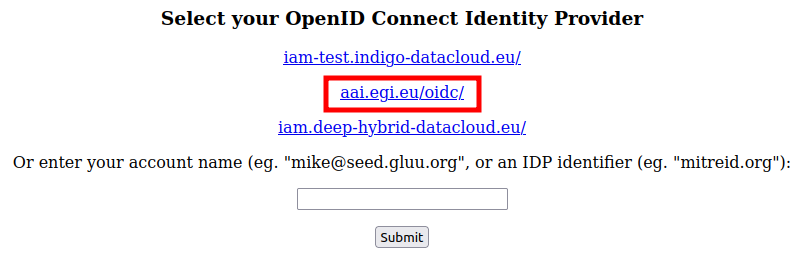
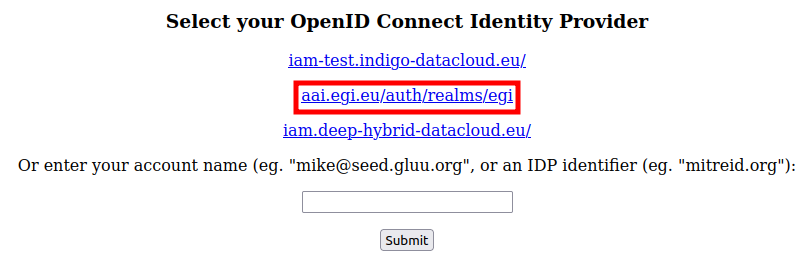
Update screenshot to login with OpenStack Horizon (#562)

diff --git a/content/en/users/getting-started/openstack/_index.md b/content/en/users/getting-started/openstack/_index.md
@@ -42,7 +42,7 @@ Or _egi.eu_:
 
 In the **Authenticate using** drop-down menu of the login screen.
 
-Additionally you may need to select _aai.egi.eu/oidc_ as well:
+Additionally you may need to select _aai.egi.eu/auth/realms/egi_ as well:
 
 ![aai.egi.eu/oidc](dashboard-login-check-partb.png)
 
